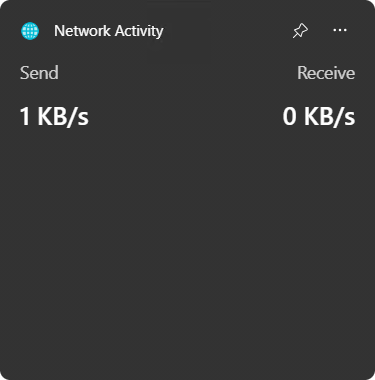
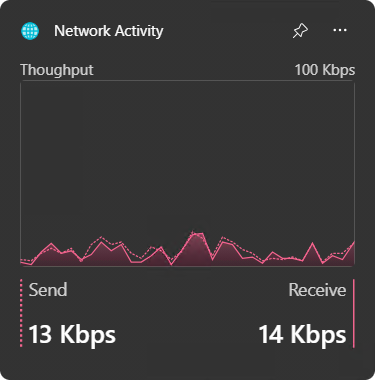
Update network widget graph
Network Activity Widget:
- Expand the graph size
- Add label 'throughput' for the graph
- Update screenshots

Chores:
- Rename solution to SystemActivityWidgets
- Separate widget display name and application display name

diff --git a/WidgetProvider/Resources/Strings.Designer.cs b/WidgetProvider/Resources/Strings.Designer.cs
@@ -95,5 +95,14 @@ namespace WidgetProvider.Resources {
                 return ResourceManager.GetString("NetworkActivityTemplate_Sent", resourceCulture);
             }
         }
+        
+        /// <summary>
+        ///   Looks up a localized string similar to Thoughput.
+        /// </summary>
+        internal static string NetworkActivityTemplate_Throughput {
+            get {
+                return ResourceManager.GetString("NetworkActivityTemplate_Throughput", resourceCulture);
+            }
+        }
     }
 }

diff --git a/WidgetProvider/Helpers/NetworkActivityChart.cs b/WidgetProvider/Helpers/NetworkActivityChart.cs
@@ -36,7 +36,7 @@ internal class NetworkActivityChart
   private static float DecayThreshold => 0.2f;
 
   private const int ChartWidth = 268;
-  private const int ChartHeight = 86;
+  private const int ChartHeight = 150;
   private const int Capacity = 34;
   private const string MainColor = "rgb(245,98,142)";
   private const int LegendStrokeWidth = 3;
